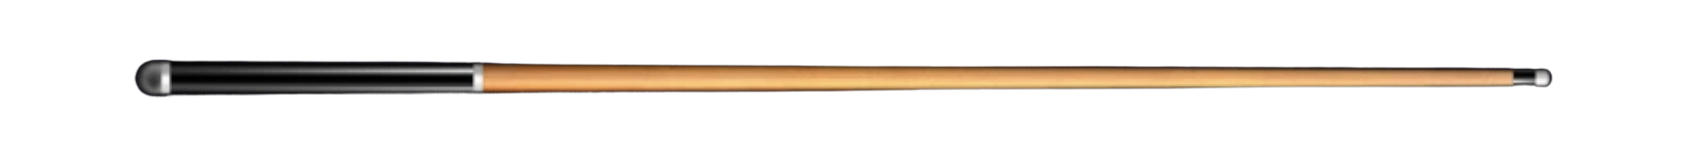
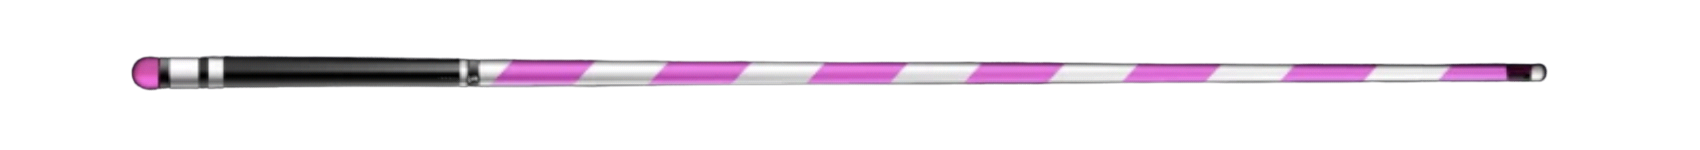
Cue compact loading, backButtonFromSettings

Changed region(s): [[0.0624, 0.3733, 0.9353, 0.64]]

diff --git a/src/game/controller/GameSceneController.java b/src/game/controller/GameSceneController.java
@@ -126,10 +126,15 @@ public class GameSceneController {
             stripedScoreBall[i].setFitWidth(30);
             stripedScoreBall[i].setLayoutX(879 + 40*i);
             stripedScoreBall[i].setLayoutY(157);
-            pane.getChildren().addAll(solidScoreBall[i], stripedScoreBall[i]);
+            ImageView blackball = new ImageView(new Image("file:src/game/resources/ScoreBalls/Ball8.png"));
+            blackball.setFitHeight(60);
+            blackball.setFitWidth(60);
+            blackball.setLayoutX(672);
+            blackball.setLayoutY(142);
+            pane.getChildren().addAll(solidScoreBall[i], stripedScoreBall[i],blackball);
         }
 
-        if(SettingsSceneController.getSettingsSceneController().cueMenuIndex() == 0) {
+        /*if(SettingsSceneController.getSettingsSceneController().cueMenuIndex() == 0) {
             cue = new ImageView(new Image("file:src/game/resources/Cues/Cue1.png"));
         } else if(SettingsSceneController.getSettingsSceneController().cueMenuIndex() == 1) {
             cue = new ImageView(new Image("file:src/game/resources/Cues/Cue2.png"));
@@ -137,12 +142,14 @@ public class GameSceneController {
             cue = new ImageView(new Image("file:src/game/resources/Cues/Cue3.png"));
         } else {
             cue = new ImageView(new Image("file:src/game/resources/Cues/Cue4.png"));
-        }
+        }*/
 
+        //CUE LOADING
+        cue = new ImageView(new Image("file:src/game/resources/Cues/Cue"+String.valueOf(SettingsSceneController.getSettingsSceneController().cueMenuIndex()+1 +".png")));
         cue.setFitWidth(400);
         cue.setFitHeight(100);
-        cue.setLayoutX(90);
-        cue.setLayoutY(452);
+        cue.setLayoutX(105);
+        cue.setLayoutY(447);
         cue.setPreserveRatio(true);
         pane.getChildren().add(cue);
         

diff --git a/src/game/controller/SettingsSceneController.java b/src/game/controller/SettingsSceneController.java
@@ -25,6 +25,8 @@ public class SettingsSceneController{
     private Pagination modeMenu;
     @FXML
     private Button playButton;
+    @FXML
+    private Button backButton;
 
     // for communication with other controllers !!
     private static SettingsSceneController instance;
@@ -61,6 +63,17 @@ public class SettingsSceneController{
                 return pane;
             }
         });
+    }
+    @FXML
+    void handleMenuFromSettings(ActionEvent event) throws Exception{
+        Stage stage;
+        Scene scene;
+        Parent root;
+        stage = (Stage) backButton.getScene().getWindow();
+        root = FXMLLoader.load(Main.class.getResource("view/MenuScene.fxml"));
+        scene = new Scene(root);
+        stage.setScene(scene);
+        stage.show();
     }
     
     @FXML
